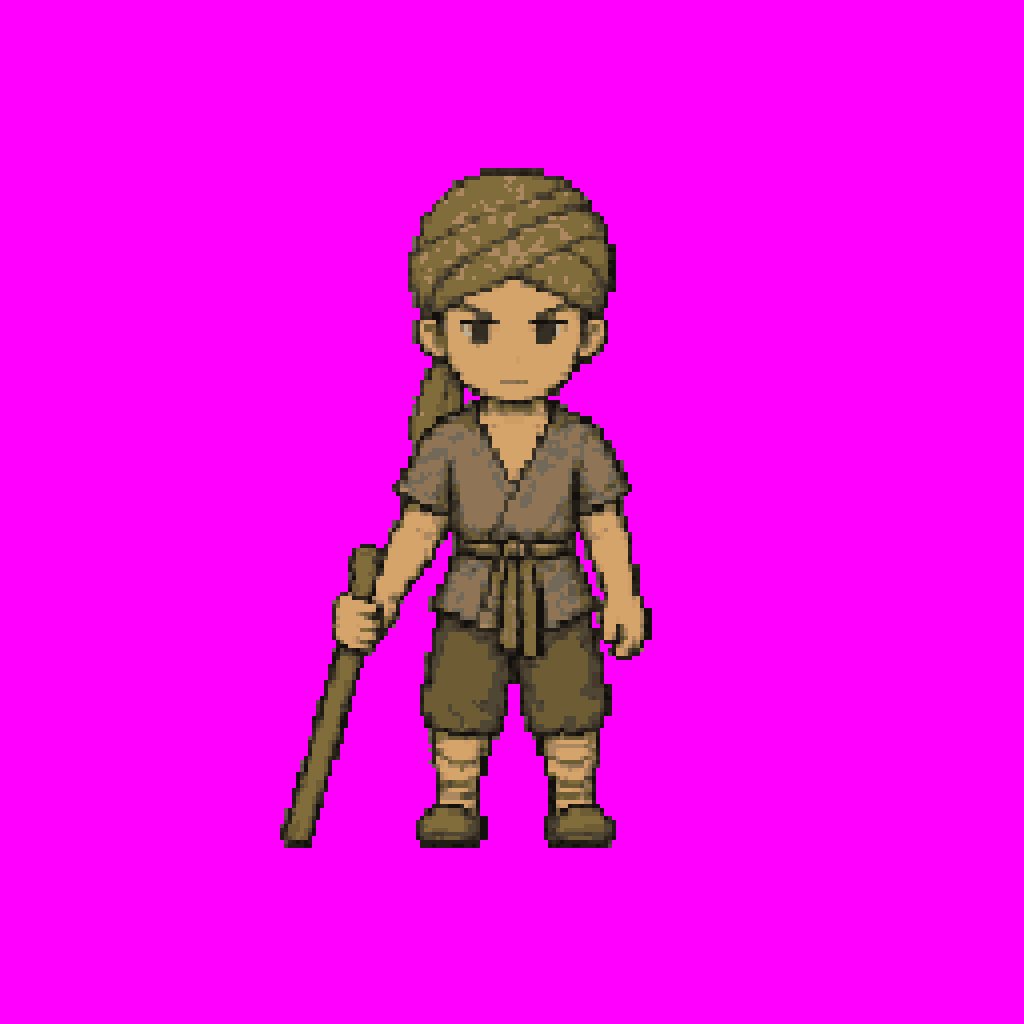
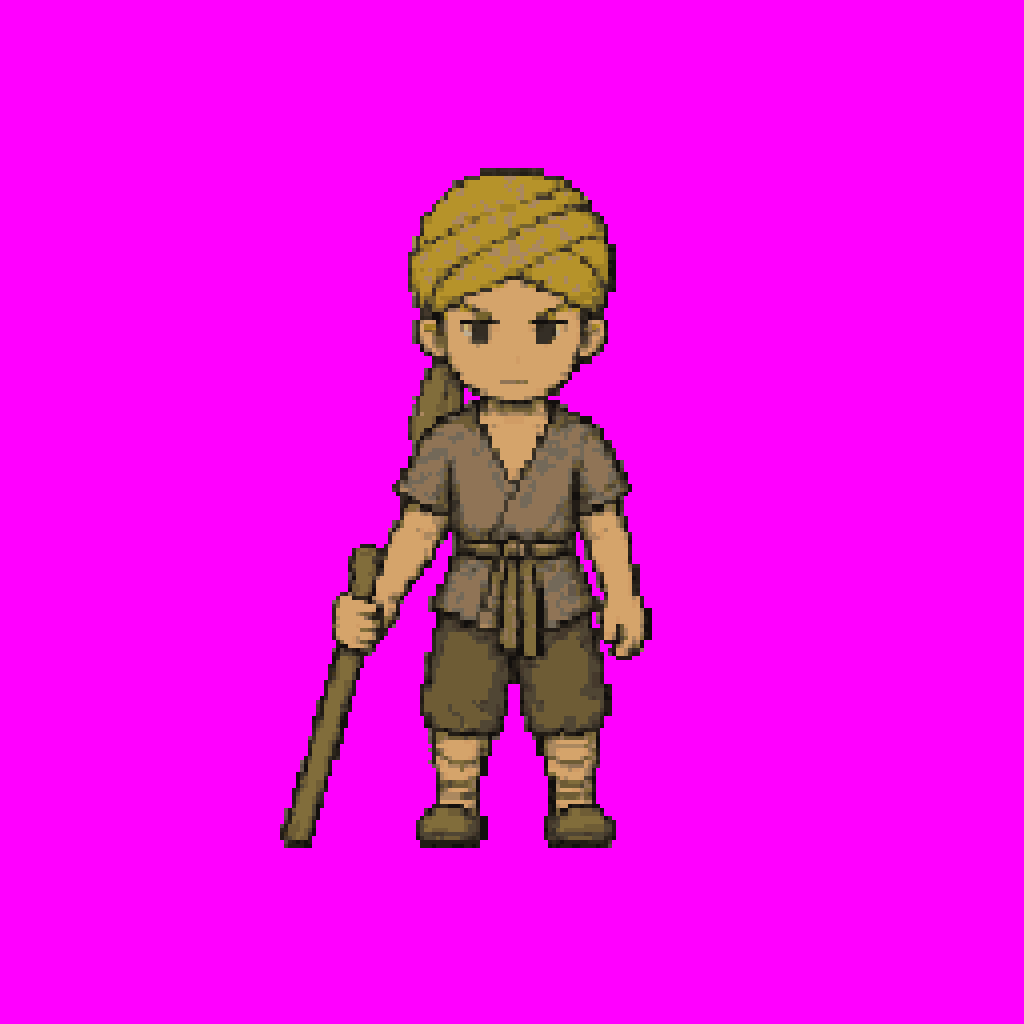
v0.8.0: 森林小道伏擊場景、黃巾渠帥暫代圖（盜賊頭巾染黃）、黃巾小兵頭巾染黃
- 直向森林小道，主角由下往上走；走到林間空地觸發伏擊
- 1 名黃巾渠帥＋3 名黃巾小兵從左右側小徑衝出，倒下不重生
- 擊退後往北走到出口＝本段結束；倒下整段重來
- 擋住角色的樹自動半透明

Claude-Session: https://claude.ai/code/session_01EmaEuvLecHkLkY1cKv5YdS

Changed region(s): [[0.375, 0.1562, 0.5938, 0.3125]]

diff --git a/game.js b/game.js
@@ -1,7 +1,23 @@
-// 大江湖 · 第 1 步：可走動的小鎮（Phaser 3）
+// 大江湖 · 森林小道伏擊（Phaser 3）
 'use strict';
 
-const MAP_W = 820, MAP_H = 660;
+const MAP_W = 460, MAP_H = 1120;   // 直向的森林小道
+
+// ---------- 森林小道 ----------
+// 小道中心線（略為彎曲）、中段的林間空地（戰場）、左右兩條側小徑（伏兵從這裡衝出）
+const PATH_HW = 50;                                     // 小道半寬
+const pathCX = y => 230 + 16 * Math.sin(y / 170);       // 小道中心 x
+const CLEAR = { x: 230, y: 560, rx: 175, ry: 120 };     // 林間空地（橢圓）
+const SIDE_Y0 = 535, SIDE_Y1 = 595;                     // 左右側小徑的上下緣
+const START = { x: pathCX(1060), y: 1060 };             // 主角起點（小道最下方）
+const AMBUSH_Y = 690;                                   // 主角往上走到這裡（空地下緣）觸發伏擊
+const EXIT_Y = 50;                                      // 擊退伏兵後，走到小道最上方＝本段結束
+function walkable(x, y) {
+  if (y < 6 || y > MAP_H - 6) return false;
+  if (Math.abs(x - pathCX(y)) < PATH_HW) return true;
+  if (((x - CLEAR.x) / CLEAR.rx) ** 2 + ((y - CLEAR.y) / CLEAR.ry) ** 2 < 1) return true;
+  return y > SIDE_Y0 && y < SIDE_Y1 && x > 8 && x < MAP_W - 8;
+}
 const SPEED = 115;      // 世界單位 / 秒
 const HERO_H = 46;      // 主角在世界中的高度
 const ATK_SRC_BODY_H = 360;   // 揮刀圖裡，頭頂到腳底的像素高度（對應 HERO_H）
@@ -13,7 +29,7 @@ const JOY_DEAD = 6;     // 死區：拖不到這個距離不動
 const JOY_FULL = 34;    // 拖到這個距離就是全速
 
 // 戰鬥
-const VERSION = 'v0.7.21';   // 每次更新請加一
+const VERSION = 'v0.8.0';   // 每次更新請加一
 const BTN_R = 42;           // 攻擊鍵半徑（螢幕像素）
 const ATK_CD = 680;         // 兩次攻擊的最短間隔（毫秒）
 const ATK_SWING = 360;      // 揮劍動作本身的長度
@@ -33,11 +49,7 @@ const PLAYER_DMG_MIN = 10, PLAYER_DMG_RNG = 5;   // 傷害 10~14
 const DIRS = { up: [0, -1], down: [0, 1], left: [-1, 0], right: [1, 0] };
 
 // 木人樁（底部中心座標）
-const DUMMIES = [
-  { x: 240, y: 335 },
-  { x: 580, y: 335 },
-  { x: 410, y: 470 },
-];
+const DUMMIES = [];   // 森林小道不放木人樁
 const DUMMY_HP = 60;
 
 // 玩家
@@ -68,19 +80,20 @@ const BACK_I_FROM = 20, BACK_I_TO = 210;
 const DG_R = 34;                // 閃避鍵半徑（螢幕像素）
 
 // 敵人出生點與種類：左邊只有一個黃巾渠帥（武將），右邊是一群小兵與精兵
+// 伏兵：一開始藏在兩側樹林（看不到），主角走到空地時從左右側小徑衝出
+// delay：觸發後幾毫秒才現身；ex, ey：衝進空地的落點
 const ENEMY_SPAWNS = [
-  { type: 'bandit', x: 170, y: 480 },
-  { type: 'turban', x: 600, y: 310 }, { type: 'turban', x: 640, y: 335 },
-  { type: 'turban', x: 600, y: 355 }, { type: 'turban', x: 680, y: 320 },
-  { type: 'turban', x: 700, y: 355 }, { type: 'turban', x: 660, y: 300 },
-  { type: 'hansoldier', x: 720, y: 305 }, { type: 'hansoldier', x: 570, y: 335 },
+  { type: 'turban', x: 14,  y: 572, delay: 0,    ex: 120, ey: 585 },
+  { type: 'bandit', x: 14,  y: 556, delay: 2000, ex: 140, ey: 548 },
+  { type: 'turban', x: 446, y: 552, delay: 200,  ex: 330, ey: 545 },
+  { type: 'turban', x: 446, y: 580, delay: 500,  ex: 345, ey: 595 },
 ];
 
 // 所有敵人共用同一套戰鬥規則，強弱只靠這張數值表決定（新增敵人填一行即可）
 const ENEMY_TYPES = {
   bandit: {
-    tex: 'hangeneral',        // 貼圖前綴（武將專屬圖：走路、站立、揮砍、受擊、倒下）
-    walkTex: 'hangeneral', standTex: 'hangeneral', animTex: 'hangeneral',   // animTex：有揮砍／受擊／倒下動畫
+    tex: 'yturban',           // 暫代：盜賊圖把頭巾染成土黃（之後換成 Codex 的正式黃巾武將）
+    walkTex: 'yturban', standTex: 'yturban', animTex: null,   // 暫代圖沒有揮砍／受擊／倒下動畫
     name: '黃巾渠帥', showName: true,   // 武將：常駐名字與血條
     shadowColor: 0x000000,
     walkBright: { side: 1, front: 1, back: 1 },            // 走路圖亮度校正（Codex 圖已與參考一致）
@@ -161,21 +174,8 @@ const REACT_DELAY = 100;      // 防禦/閃避生效前的小動作（提示）
 const GUARD_FRONT = 0.3;      // 攻擊來自防禦方向的內積門檻，側面與背後擋不到
 const DODGE_DUR = 240, DODGE_DIST = 46;   // 敵人後閃：距離拉長一點，才看得出來
 
-// 小鎮配置：x、y 為底部中心；w 為顯示寬度
-const PROPS = [
-  { kind: 'house', x: 300, y: 255, w: 110 },
-  { kind: 'house', x: 520, y: 255, w: 110 },
-  { kind: 'house', x: 300, y: 610, w: 110 },
-  { kind: 'house', x: 520, y: 610, w: 110 },
-  { kind: 'tree', x: 90,  y: 130, w: 95 },
-  { kind: 'tree', x: 730, y: 120, w: 95 },
-  { kind: 'tree', x: 90,  y: 520, w: 90 },
-  { kind: 'tree', x: 740, y: 540, w: 95 },
-  { kind: 'tree', x: 300, y: 70,  w: 85 },
-  { kind: 'tree', x: 520, y: 80,  w: 85 },
-  { kind: 'tree', x: 330, y: 650, w: 85 },
-  { kind: 'tree', x: 520, y: 690, w: 80 },
-];
+// 固定擺設（森林小道的樹改由程式自動種，這裡留空）
+const PROPS = [];
 
 // 去掉洋紅背景（#FF00FF）並裁切到圖案範圍，回傳 canvas
 function keyAndTrim(img) {
@@ -285,9 +285,9 @@ class VillageScene extends Phaser.Scene {
     this.load.image('hero_hurt_back', A + 'characters/hero_hurt_back.png');
     this.load.image('hero_down_side', A + 'characters/hero_down_side.png');
     this.load.image('hero_down_front', A + 'characters/hero_down_front.png');
-    for (const f of ['walk_side', 'walk_front', 'walk_back', 'stand_side', 'stand_front', 'stand_back',
-                     'attack_side', 'attack_front', 'attack_back', 'hurt_side', 'down_side']) {
-      this.load.image('hangeneral_' + f, A + 'characters/hangeneral_' + f + '.png');
+    // 黃巾渠帥（暫代圖）；官兵武將圖 hangeneral_* 保留在資料夾，之後給官軍將領用
+    for (const f of ['walk_side', 'walk_front', 'walk_back', 'stand_side', 'stand_front', 'stand_back']) {
+      this.load.image('yturban_' + f, A + 'characters/yturban_' + f + '.png');
     }
     for (const p of ['turban', 'hansoldier']) {
       for (const d of ['side', 'front', 'back']) this.load.image(p + '_stand_' + d, A + 'characters/' + p + '_stand_' + d + '.png');
@@ -298,8 +298,6 @@ class VillageScene extends Phaser.Scene {
     this.load.image('hansoldier_walk_side', A + 'characters/hansoldier_walk_side.png');
     this.load.image('hansoldier_walk_front', A + 'characters/hansoldier_walk_front.png');
     this.load.image('hansoldier_walk_back', A + 'characters/hansoldier_walk_back.png');
-    this.load.image('stone', A + 'tiles/stone_floor.png');
-    this.load.image('house', A + 'buildings/house_01.png');
     this.load.image('tree', A + 'props/tree_01.png');
   }
 
@@ -358,7 +356,6 @@ class VillageScene extends Phaser.Scene {
           .forEach((cv, i) => this.textures.addCanvas(P + '_' + dst + '_' + i, cv));
       }
     }
-    this.keyTex('house', 'house_k');
     this.keyTex('tree', 'tree_k');
     // 去背完成：原始大圖（共約 100MB）之後不會再用，釋放掉，減輕手機（尤其 iPhone）的記憶體壓力；地磚 stone 要保留
     for (const k of this.textures.getTextureKeys()) {
@@ -369,23 +366,9 @@ class VillageScene extends Phaser.Scene {
     this.world = [];   // 世界物件，會被鏡頭看到
     this.ui = [];      // 螢幕固定物件
 
-    // 地面
-    this.world.push(this.add.rectangle(0, 0, MAP_W, MAP_H, 0x33442f).setOrigin(0).setDepth(-20));
-    let seed = 7;
-    const rnd = () => (seed = (seed * 16807) % 2147483647) / 2147483647;
-    for (let i = 0; i < 420; i++) {
-      const r = 2 + rnd() * 4;
-      this.world.push(this.add.rectangle(rnd() * MAP_W, rnd() * MAP_H, r, r * 0.6, 0x2a3828, 0.5 + rnd() * 0.4).setDepth(-19));
-    }
-    // 石板路（十字）
-    for (const [x, y, w, h] of [[0, 280, MAP_W, 90], [360, 0, 100, MAP_H]]) {
-      const ts = this.add.tileSprite(x, y, w, h, 'stone').setOrigin(0).setDepth(-15);
-      ts.tileScaleX = 0.16; ts.tileScaleY = 0.16;
-      this.world.push(ts);
-    }
+    this.buildForest();
 
-    // 建築與大樹：障礙、陰影、排序
-    this.obstacles = this.physics.add.staticGroup();
+    // 固定擺設（目前沒有）：障礙、陰影、排序；this.obstacles 已在 buildForest 建好
     for (const p of PROPS) {
       const isHouse = p.kind === 'house';
       const key = isHouse ? 'house_k' : 'tree_k';
@@ -419,7 +402,7 @@ class VillageScene extends Phaser.Scene {
     }
 
     // 主角：物理碰撞用的腳底框（看不見），圖片跟著它走
-    this.playerBody = this.add.zone(410, 330, 14, 8);
+    this.playerBody = this.add.zone(START.x, START.y, 14, 8);
     this.physics.add.existing(this.playerBody);
     this.playerBody.body.setCollideWorldBounds(true);
     this.physics.world.setBounds(0, 0, MAP_W, MAP_H);
@@ -444,7 +427,8 @@ class VillageScene extends Phaser.Scene {
     // 山賊：追擊、出刀、受傷、倒下、重生
     this.bandits = [];
     for (const h of ENEMY_SPAWNS) {
-      const T = ENEMY_TYPES[h.type];
+      // 伏擊戰：被觸發後一路追到底（不會因距離放棄），倒下不重生
+      const T = Object.assign({}, ENEMY_TYPES[h.type], { aggro: 600, lose: 1200, respawnMs: Infinity });
       const shadow = this.add.ellipse(h.x, h.y, 42, 12, T.shadowColor, 0.28).setDepth(-10);
       const sprite = this.add.image(h.x, h.y, T.walkTex ? T.walkTex + '_walk_front_1' : T.tex + '_down').setOrigin(0.5, 1).setDepth(h.y);
       const alert = this.add.text(h.x, h.y - T.h - 4, '!', {
@@ -472,8 +456,11 @@ class VillageScene extends Phaser.Scene {
         reactCd: 0, dodgeCd: 0, guardHits: 0, gdx: 0, gdy: 1,
         preemptCd: 0, pRoll: false, pd: undefined, pt: 0,
         lastKind: null, feintAt: 0, sx: h.x, sy: h.y, ghostT: 0,
+        spawn: h, hidden: false,
       });
     }
+    for (const b of this.bandits) this.hideBandit(b);
+    this.stage = { phase: 'walk', t0: 0 };   // walk：往上走 → fight：伏兵出現 → cleared：擊退 → end：本段結束
     for (let i = 0; i < this.bandits.length; i++) {
       for (let j = i + 1; j < this.bandits.length; j++) {
         this.physics.add.collider(this.bandits[i].body, this.bandits[j].body);
@@ -529,6 +516,10 @@ class VillageScene extends Phaser.Scene {
       fontFamily: 'system-ui, sans-serif', fontSize: '30px', color: '#e8c8b8',
       stroke: '#000000', strokeThickness: 5,
     }).setOrigin(0.5).setDepth(1002).setVisible(false);
+    this.bannerText = this.add.text(this.scale.width / 2, this.scale.height * 0.3, '', {
+      fontFamily: 'system-ui, sans-serif', fontSize: '24px', fontStyle: 'bold', color: '#f0d890',
+      stroke: '#000000', strokeThickness: 5, align: 'center',
+    }).setOrigin(0.5).setDepth(1002).setVisible(false);
     this.hintText = this.add.text(this.scale.width / 2, 52, '左半邊拖曳移動 · 右下「攻」揮劍 · 「閃」翻滾（前段無敵）\n翻滾後立刻按「攻」＝翻滾攻擊\n電腦：WASD 移動、空白鍵攻擊、Shift 翻滾', {
       fontFamily: 'system-ui, sans-serif', fontSize: '14px', color: '#d8e0cf',
       stroke: '#000000', strokeThickness: 3, align: 'center',
@@ -538,7 +529,7 @@ class VillageScene extends Phaser.Scene {
       stroke: '#000000', strokeThickness: 2,
     }).setOrigin(1, 0).setDepth(1001);
     this.ui.push(this.joyGfx, this.btnGfx, this.btnText, this.hintText, this.verText,
-                 this.hpGfx, this.hpText, this.downText, this.dgGfx, this.dgText);
+                 this.hpGfx, this.hpText, this.downText, this.dgGfx, this.dgText, this.bannerText);
     this.hintTimer = this.time.delayedCall(6000, () => this.hintText.setVisible(false));
 
     cam.ignore(this.ui);
@@ -598,6 +589,7 @@ class VillageScene extends Phaser.Scene {
       this.hintText.setX(this.scale.width / 2);
       this.verText.setX(this.scale.width - 6);
       this.downText.setPosition(this.scale.width / 2, this.scale.height / 2 - 40);
+      this.bannerText.setPosition(this.scale.width / 2, this.scale.height * 0.3);
     });
   }
 
@@ -776,6 +768,8 @@ class VillageScene extends Phaser.Scene {
     this.hero.setAlpha(!this.down && time < this.invulnUntil && Math.floor(time / 80) % 2 ? 0.45 : 1);
 
     this.processAttack(time, fx, fy);
+    this.updateStage(time);
+    this.fadeTrees(time);
     this.updateBandits(time);
     if (this.down && time >= this.respawnAt) this.respawnPlayer(time);
     this.drawEnemyFx(time);
@@ -974,6 +968,7 @@ class VillageScene extends Phaser.Scene {
     const px = this.playerBody.x, py = this.playerBody.y + 4;
     for (const b of this.bandits) {
       const bd = b.body.body;
+      if (b.state === 'hidden') { bd.setVelocity(0, 0); continue; }   // 還藏在樹林裡
       const bx = b.body.x, by = b.body.y + 4;
       const dx = px - bx, dy = py - by, dist = Math.hypot(dx, dy) || 1;
       const ux = dx / dist, uy = dy / dist;
@@ -1021,6 +1016,12 @@ class VillageScene extends Phaser.Scene {
           b.facing = Math.abs(ux) > Math.abs(uy) ? (ux > 0 ? 'left' : 'right') : (uy > 0 ? 'up' : 'down');
           if (time - b.t0 >= b.fleeFor) { b.state = 'rest'; b.t0 = time; b.orbitDir = Math.random() < 0.5 ? 1 : -1; b.stalked = true; }
         }
+      } else if (b.state === 'enter') {
+        // 從側小徑衝進空地：朝落點跑，到了（或跑太久）就開始圍攻
+        const ex = b.spawn.ex - bx, ey = b.spawn.ey - by, ed = Math.hypot(ex, ey) || 1;
+        vx = ex / ed * b.t.speed * 1.25; vy = ey / ed * b.t.speed * 1.25;
+        b.facing = Math.abs(ex) > Math.abs(ey) ? (ex > 0 ? 'right' : 'left') : (ey > 0 ? 'down' : 'up');
+        if (ed < 10 || time - b.t0 > 3000) { b.state = this.down ? 'idle' : 'chase'; b.stalked = false; b.closeIn = false; b.nextKind = null; }
       } else if (b.state === 'idle') {
         if (!this.down && dist < b.t.aggro) { b.state = 'chase'; b.stalked = false; b.closeIn = false; b.nextKind = null; }
       } else if (b.state === 'chase') {
@@ -1155,7 +1156,7 @@ class VillageScene extends Phaser.Scene {
         // 移動中（追、繞、逼近）播走路動畫；蓄力、出刀、防禦等維持原本姿勢
         const wdt = time - (b.lastT === undefined ? time : b.lastT); b.lastT = time;
         const sp = Math.hypot(vx, vy);
-        const walkable = b.state === 'chase' || b.state === 'stalk' || b.state === 'rest' || b.state === 'pause' || b.state === 'flee';
+        const walkable = b.state === 'enter' || b.state === 'chase' || b.state === 'stalk' || b.state === 'rest' || b.state === 'pause' || b.state === 'flee';
         if (!walkable) b.moveOn = false;
         else if (sp > 8) b.moveOn = true;
         else if (sp < 3) b.moveOn = false;
@@ -1436,9 +1437,141 @@ class VillageScene extends Phaser.Scene {
     this.stam = STAM_MAX; this.roll = null;
     this.hero.setAngle(0);
     this.downText.setVisible(false);
-    this.playerBody.body.reset(410, 330);
-    for (const b of this.bandits) {
-      if (!b.dead) { b.state = 'idle'; b.hp = b.t.hp; }
+    this.playerBody.body.reset(START.x, START.y);
+    // 倒下＝整段重來：伏兵全部回到樹林裡，重新往上走
+    for (const b of this.bandits) this.hideBandit(b);
+    this.stage = { phase: 'walk', t0: 0 };
+    this.bannerText.setVisible(false);
+  }
+
+  // ---------- 森林小道：伏擊流程 ----------
+  updateStage(time) {
+    const st = this.stage, py = this.playerBody.y;
+    if (st.phase === 'walk' && !this.down && py < AMBUSH_Y) {
+      st.phase = 'fight'; st.t0 = time;
+      this.banner('有埋伏！', 1600);
+    }
+    if (st.phase === 'fight') {
+      for (const b of this.bandits) if (b.hidden && time - st.t0 >= b.spawn.delay) this.revealBandit(b, time);
+      if (this.bandits.every(b => !b.hidden && b.dead)) { st.phase = 'cleared'; this.banner('擊退伏兵\n往北前進', 2800); }
+    }
+    if (st.phase === 'cleared' && !this.down && py < EXIT_Y) {
+      st.phase = 'end'; st.t0 = time;
+      this.banner('本段結束', 3000);
+    }
+    if (st.phase === 'end' && time - st.t0 > 3400) this.respawnPlayer(time);   // 自動重來，方便反覆測試
+  }
+
+  // 擋在角色前面的樹變半透明，打鬥時看得到人（每 0.1 秒檢查一次）
+  fadeTrees(time) {
+    if (time - (this.fadeT || 0) < 100) return;
+    this.fadeT = time;
+    const who = [{ x: this.playerBody.x, y: this.playerBody.y + 4, h: HERO_H }];
+    for (const b of this.bandits) if (!b.hidden && b.state !== 'dead') who.push({ x: b.body.x, y: b.body.y + 4, h: b.t.h });
+    for (const t of this.forestTrees) {
+      let cover = false;
+      for (const u of who) {
+        if (u.y < t.y && u.y > t.y - t.h - 4 && Math.abs(u.x - t.x) < t.hw + 8) { cover = true; break; }
+      }
+      if (cover !== t.faded) { t.faded = cover; t.img.setAlpha(cover ? 0.4 : 1); }
+    }
+  }
+
+  banner(msg, ms) {
+    const t = this.bannerText;
+    this.tweens.killTweensOf(t);
+    t.setText(msg).setAlpha(1).setVisible(true);
+    this.hintText.setVisible(false);   // 不和操作說明疊在一起
+    this.tweens.add({ targets: t, alpha: 0, delay: ms, duration: 500, onComplete: () => t.setVisible(false) });
+  }
+
+  // 伏兵藏起來：看不到、碰不到、打不到（dead 旗標讓所有鎖定與判定都跳過）
+  hideBandit(b) {
+    this.tweens.killTweensOf(b.sprite);
+    b.hidden = true; b.dead = true; b.state = 'hidden';
+    b.hp = b.t.hp; b.poise = b.t.poise; b.combo = 0; b.feintAt = 0; b.lastKind = null;
+    b.body.body.reset(b.spawn.x, b.spawn.y - 4); b.body.body.enable = false;
+    b.sprite.setVisible(false).setAngle(0).setAlpha(1).clearTint();
+    b.shadow.setVisible(false);
+    b.alert.setVisible(false); b.nameTag.setVisible(false);
+    b.respawnAt = Infinity;
+    if (this.lockTarget === b) this.lockTarget = null;
+  }
+
+  revealBandit(b, time) {
+    b.hidden = false; b.dead = false; b.state = 'enter'; b.t0 = time;
+    b.body.body.enable = true; b.body.body.reset(b.spawn.x, b.spawn.y - 4);
+    b.sprite.setVisible(true); b.shadow.setVisible(true);
+    b.reactCd = time + 600; b.preemptCd = time + 600;   // 剛衝出來先不防禦、不搶先出刀
+  }
+
+  // ---------- 森林小道：地面、樹、看不見的牆 ----------
+  buildForest() {
+    let seed = 11;
+    const rnd = () => (seed = (seed * 16807) % 2147483647) / 2147483647;
+    // 1. 先決定樹的位置：小道與空地以外，錯開的格子＋隨機偏移
+    const trees = [];
+    for (let gy = 10, row = 0; gy < MAP_H + 60; gy += 34, row++) {
+      for (let gx = (row % 2) * 22 - 10; gx < MAP_W + 30; gx += 44) {
+        const x = gx + (rnd() - 0.5) * 22, y = gy + (rnd() - 0.5) * 16;
+        if (walkable(x, y) || walkable(x, y - 8) || walkable(x - 10, y) || walkable(x + 10, y)) continue;
+        trees.push({ x, y, w: 78 + rnd() * 30, flip: rnd() < 0.5, shade: 0.72 + rnd() * 0.28 });
+      }
+    }
+    // 2. 地面畫在一張畫布上（只畫一次，之後當一張圖，手機比較省）
+    const C = 3, cw = Math.ceil(MAP_W / C), ch = Math.ceil(MAP_H / C);
+    const cv = document.createElement('canvas'); cv.width = cw; cv.height = ch;
+    const g = cv.getContext('2d');
+    const near = (x, y, r) => !walkable(x - r, y) || !walkable(x + r, y) || !walkable(x, y - r) || !walkable(x, y + r);
+    for (let j = 0; j < ch; j++) {
+      for (let i = 0; i < cw; i++) {
+        const x = i * C + 1.5, y = j * C + 1.5, n = rnd();
+        let col;
+        if (walkable(x, y)) {
+          if (near(x, y, 7)) col = n < 0.5 ? '#3d4630' : '#454a33';            // 小道邊緣：泥土混著草
+          else col = n < 0.12 ? '#3f3a2a' : n < 0.8 ? '#4b4332' : '#544a37';  // 泥土
+          if (n > 0.985) col = '#6a5f48';                                        // 小石子
+        } else {
+          col = n < 0.2 ? '#243020' : n < 0.85 ? '#2b3826' : '#33422c';        // 林地
+          if (n > 0.975) col = '#4a4a2c';                                        // 落葉
+        }
+        g.fillStyle = col; g.fillRect(i, j, 1, 1);
+      }
+    }
+    g.fillStyle = 'rgba(0,0,0,0.30)';
+    for (const t of trees) { g.beginPath(); g.ellipse(t.x / C, t.y / C, t.w * 0.42 / C, t.w * 0.16 / C, 0, 0, Math.PI * 2); g.fill(); }
+    this.textures.addCanvas('forest_ground', cv).setFilter(Phaser.Textures.FilterMode.NEAREST);   // 放大時保持像素硬邊
+    this.world.push(this.add.image(0, 0, 'forest_ground').setOrigin(0).setScale(C).setDepth(-20));
+    // 3. 樹：依腳底 y 排前後
+    this.forestTrees = [];
+    for (const t of trees) {
+      const tex = this.textures.get('tree_k').getSourceImage(), h = t.w * tex.height / tex.width;
+      const v = Math.round(255 * t.shade), tint = (v << 16) | (v << 8) | v;
+      const img = this.add.image(t.x, t.y, 'tree_k').setOrigin(0.5, 1).setDisplaySize(t.w, h)
+        .setFlipX(t.flip).setTint(tint).setDepth(t.y);
+      this.world.push(img);
+      this.forestTrees.push({ img, x: t.x, y: t.y, hw: t.w * 0.42, h: h * 0.92, faded: false });
+    }
+    // 4. 看不見的牆：小道、空地、側小徑以外都走不進去（每列連續的區段合併，再把上下相同的合併）
+    this.obstacles = this.physics.add.staticGroup();
+    const S = 8, open = [];
+    for (let y = 0; y < MAP_H; y += S) {
+      const runs = []; let x0 = null;
+      for (let x = 0; x <= MAP_W; x += S) {
+        const blocked = x < MAP_W && !walkable(x + S / 2, y + S / 2);
+        if (blocked && x0 === null) x0 = x;
+        if (!blocked && x0 !== null) { runs.push([x0, x]); x0 = null; }
+      }
+      const next = [];
+      for (const r of runs) {
+        const o = open.find(q => q.x0 === r[0] && q.x1 === r[1] && q.y1 === y);
+        if (o) { o.y1 = y + S; next.push(o); } else { const q = { x0: r[0], x1: r[1], y0: y, y1: y + S }; open.push(q); next.push(q); }
+      }
+    }
+    for (const q of open) {
+      const z = this.add.zone((q.x0 + q.x1) / 2, (q.y0 + q.y1) / 2, q.x1 - q.x0, q.y1 - q.y0);
+      this.physics.add.existing(z, true);
+      this.obstacles.add(z);
     }
   }
 
